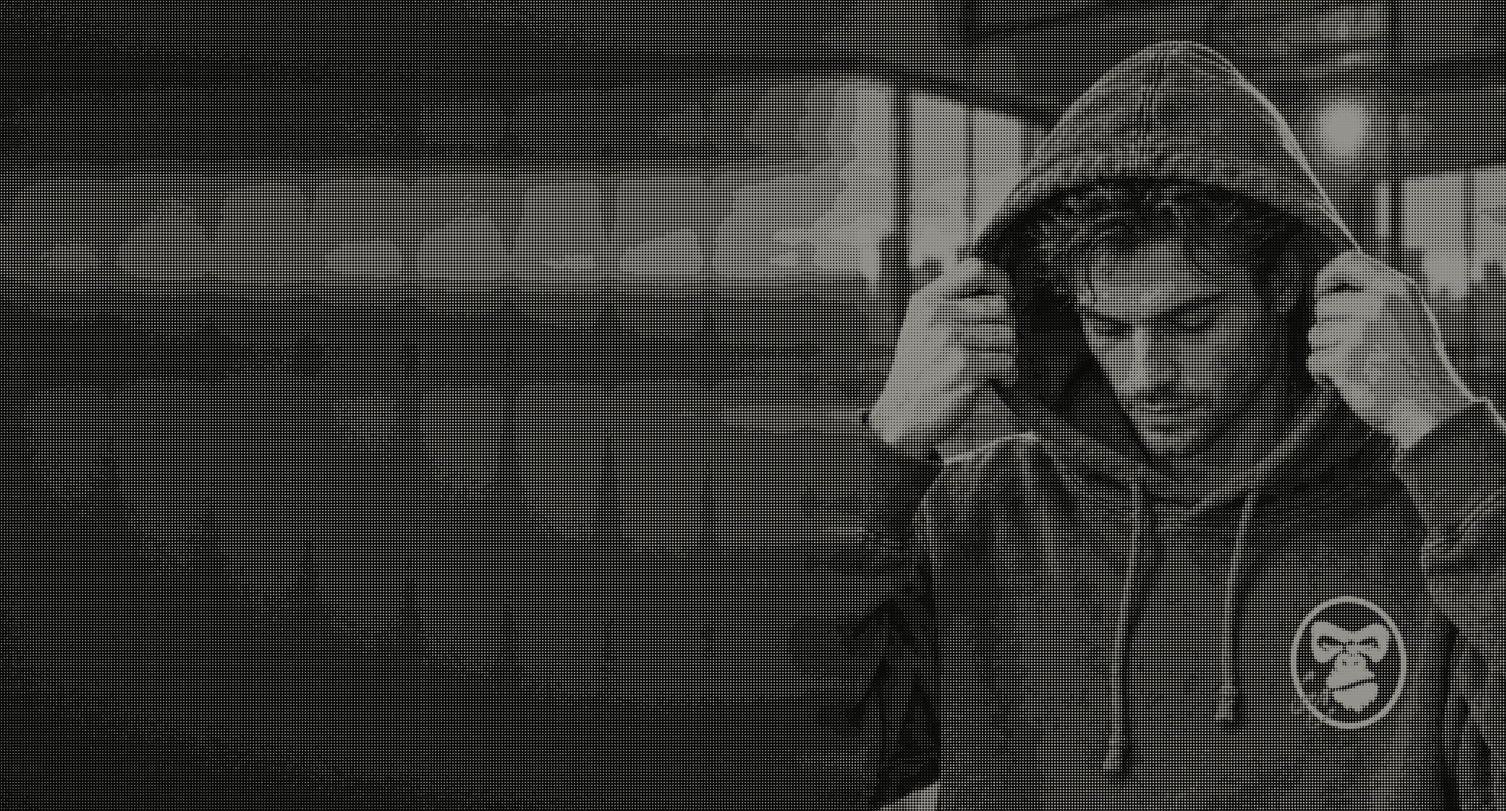
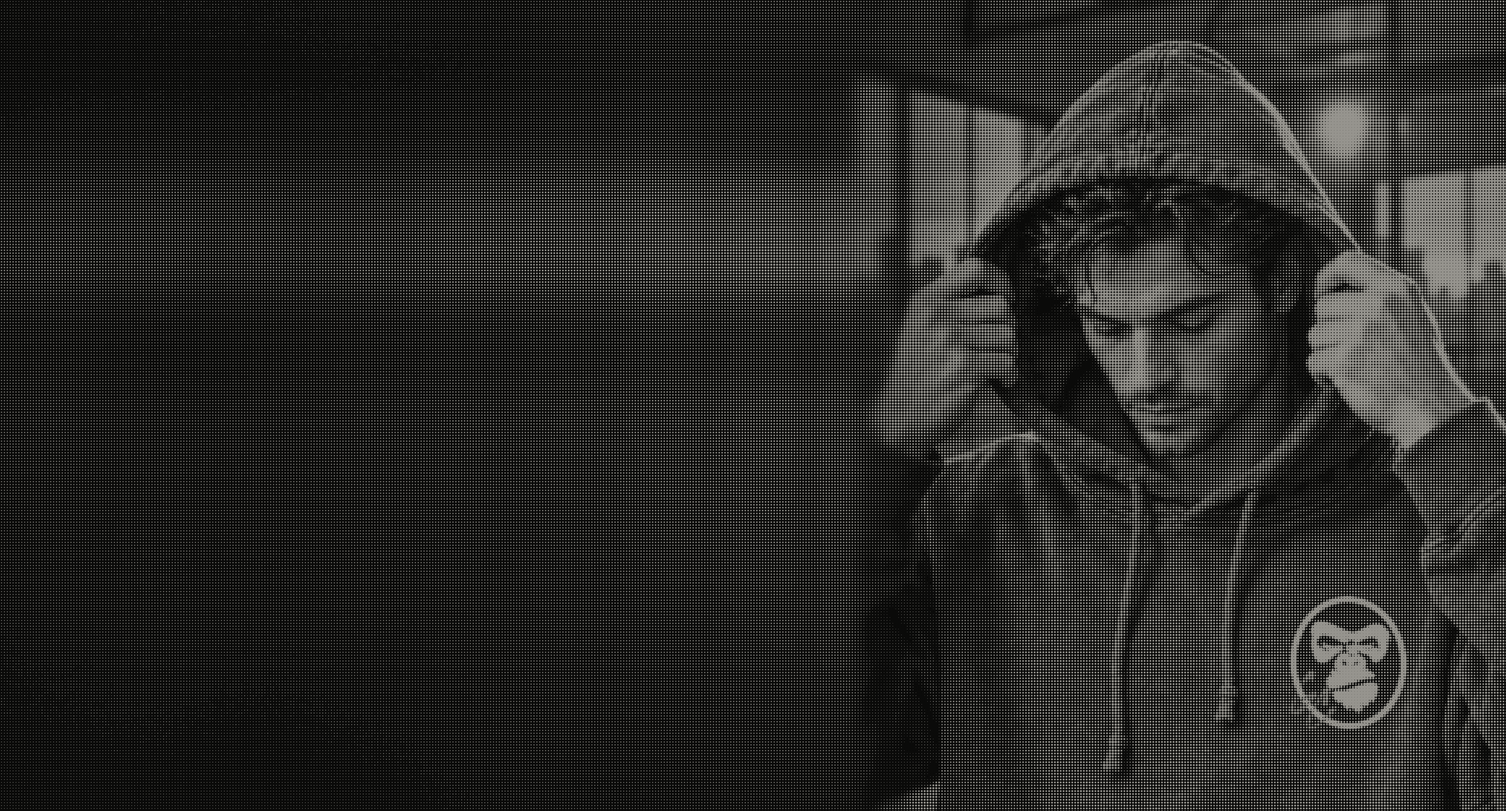
Dissolve the values extension into shadow and let About scroll everywhere
- Rebuild the wide hood-up photo: the photo's own left edge is progressively
  defocused and darkened (key light from the right) and the room carries on at
  the same blur and darkness, so there is no join line and no streaked smear.
  The halftone is regenerated with sub-pixel dot radii, so its gradients
  stay smooth instead of banding.
- About this concept: scroll inside the dialog at every size, so landscape
  phones and short windows can reach the title, Close and the disclosures.
- Values words get a little more leading and a height cap on short windows.
- Reveal observer thresholds include the .2 and .5 that sections ask for.
- Demo checkout confirmation starts from its heading.

Claude-Session: https://claude.ai/code/session_01PR89fAsz1zoLshDbtoBpft

Changed region(s): [[0.0, 0.0, 0.6849, 1.0], [0.9962, 0.2454, 1.0, 0.276]]

diff --git a/website/app/v3/v3.css b/website/app/v3/v3.css
@@ -216,7 +216,7 @@ html[data-gc-arrival=dark] .gc .pdp-zone > .torn-top { opacity: var(--arrival-li
 .gc-values-lip { position: absolute; top: 0; bottom: 0; left: 0; width: var(--strip); background: url(/assets/gc-seam-lip.png) left top / 100% 100% no-repeat; transform: translateX(var(--x)); filter: drop-shadow(5px 0 6px rgb(0 0 0 / .55)); will-change: transform; }
 .gc-values-stage::after { content: ''; position: absolute; z-index: 1; inset: 0; background: linear-gradient(90deg, rgb(11 11 10 / .66) 0, rgb(11 11 10 / .4) 36%, rgb(11 11 10 / 0) 60%), linear-gradient(0deg, rgb(11 11 10 / .45) 0, rgb(11 11 10 / 0) 30%), linear-gradient(180deg, rgb(11 11 10 / .4) 0, rgb(11 11 10 / 0) 18%); pointer-events: none; }
 .gc-values-copy { position: absolute; z-index: 2; left: var(--gc-g); right: var(--gc-g); bottom: calc(clamp(36px, 7vh, 76px) + 100lvh - 100svh); }
-.gc-values-words { display: grid; margin: 14px 0 16px; font-family: var(--gc-poster); font-weight: 400; font-size: clamp(72px, 11.6vw, 224px); line-height: .9; letter-spacing: .002em; text-transform: uppercase; }
+.gc-values-words { display: grid; margin: 14px 0 16px; font-family: var(--gc-poster); font-weight: 400; font-size: clamp(72px, min(11.6vw, 21vh), 224px); line-height: .97; letter-spacing: .002em; text-transform: uppercase; }
 .gc-values-words span { opacity: clamp(.84, calc((var(--on, 1) - var(--i) * .3) * 4.5 + .84), 1); text-shadow: 0 2px 10px rgb(0 0 0 / .7); }
 .gc-values-line { max-width: 30ch; margin: 0; font-size: clamp(17px, 1.5vw, 22px); font-weight: 500; line-height: 1.4; color: var(--gc-on-photo); text-shadow: 0 1px 10px rgb(0 0 0 / .5); text-wrap: balance; }
 .gc-values-copy .gc-label, .gc-values-copy .gc-note { text-shadow: 0 1px 8px rgb(0 0 0 / .7); }

diff --git a/website/app/site.tsx b/website/app/site.tsx
@@ -124,6 +124,10 @@ function ProductPreview({
   }, [open, initialSize, startAtCheckout]);
   // The finish button is replaced by the confirmation; keep keyboard focus on its next action.
   const continueRef = useRef<HTMLButtonElement>(null);
+  // Start the confirmation from its heading; focusing the button below then scrolls only as far as it needs.
+  useLayoutEffect(() => {
+    if (complete) continueRef.current?.closest('[role="dialog"]')?.scrollTo({ top: 0 });
+  }, [complete]);
   useFocusOnSwap(continueRef, complete, complete);
   function buy() {
     if (!size) {

diff --git a/website/app/globals.css b/website/app/globals.css
@@ -1091,6 +1091,9 @@ p {
   max-width: 560px !important;
   padding: 35px !important;
   border-radius: 0 !important;
+  max-height: 90svh;
+  overflow: auto;
+  overscroll-behavior: contain;
 }
 .concept-dialog h2 {
   font-size: 34px;
@@ -1655,8 +1658,6 @@ p {
   }
   .concept-dialog {
     padding: 29px !important;
-    max-height: 90svh;
-    overflow: auto;
   }
 }
 

diff --git a/website/app/use-editorial-motion.ts b/website/app/use-editorial-motion.ts
@@ -46,7 +46,7 @@ export function useEditorialMotion() {
           }
         }
       },
-      { threshold: [0, 0.3, 0.6] },
+      { threshold: [0, 0.2, 0.3, 0.5, 0.6] },
     );
     root
       .querySelectorAll('[data-reveal]')
